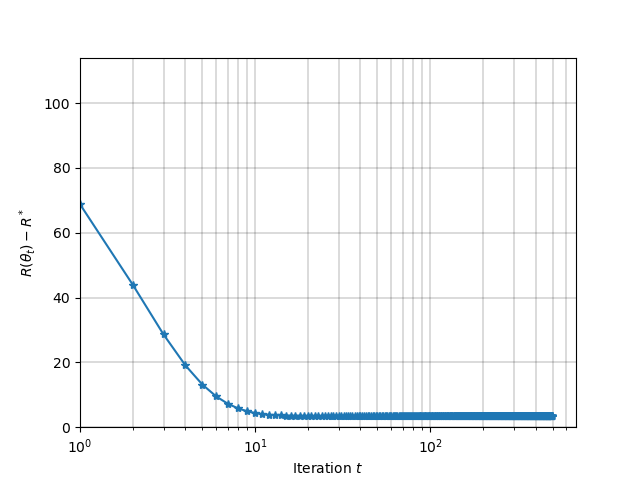
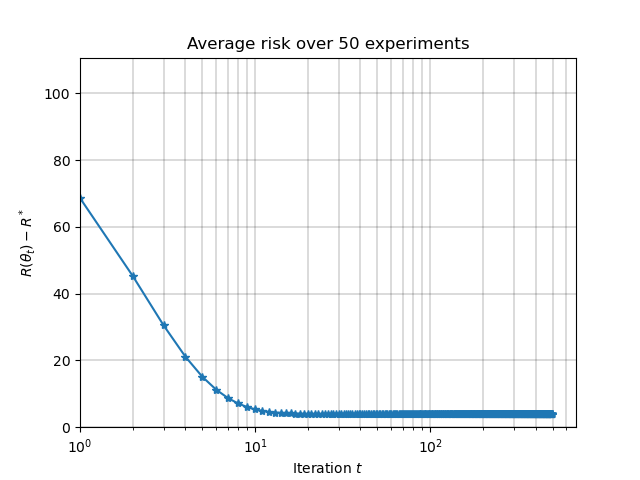
Average risks

diff --git a/paper_like.py b/paper_like.py
@@ -1,6 +1,7 @@
 import torch
 import numpy as np
 import matplotlib.pyplot as plt
+from tqdm import tqdm
 
 from utils import *
 
@@ -17,51 +18,59 @@ epochs = 500
 intern_dim=10
 optimizer='GD'
 
-model_name = 'MLP' #'MLP' or 'SLN'
+nb_avg = 50
 
-### Data generation
-data = np.random.multivariate_normal(
-    np.zeros(p),
-    np.ones((p,p)),
-    size=n) # shape (n,p)
+model_name = 'SLN' #'MLP' or 'SLN'
 
-w_true = np.ones(p)*1/np.sqrt(p)
+### Repeating experiment
+errors = np.zeros((nb_avg, epochs))
+for i in tqdm(range(nb_avg)):
+    ### Data generation
+    data = np.random.multivariate_normal(
+        np.zeros(p),
+        np.ones((p,p)),
+        size=n) # shape (n,p)
 
-observations = [np.random.normal(
-    np.dot(w_true, x),
-    sigma2)
-    for x in data]
-observations = np.array(observations) # shape (n,)
+    w_true = np.ones(p)*1/np.sqrt(p)
 
-### Solving the problem
-w_ridge = ridge(data, observations, lambda_)
+    observations = [np.random.normal(
+        np.dot(w_true, x),
+        sigma2)
+        for x in data]
+    observations = np.array(observations) # shape (n,)
 
-input_Tensor = torch.from_numpy(data).to(torch.float32)
-output_Tensor = torch.from_numpy(observations).to(torch.float32)
+    ### Solving the problem
+    #w_ridge = ridge(data, observations, lambda_)
 
-if model_name == 'MLP':
-    model = MultiLayerPerceptron(input_dim=p,
-                                 intern_dim=intern_dim,
-                                 output_dim=1,
-                                 depth=0,
-                                 isBiased = False)
-elif model_name == 'SLN':
-    model = SingleLayerNet(input_size=p,
-                         output_size=1)
+    input_Tensor = torch.from_numpy(data).to(torch.float32)
+    output_Tensor = torch.from_numpy(observations).to(torch.float32)
 
-errors = train(model,
-      input_Tensor,
-      output_Tensor,
-      lossFct = nn.MSELoss(),
-      optimizer=optimizer,
-      epochs=epochs,
-      batch_size=None,
-      return_vals=True,
-      init_norm = None,
-      lr = 0.001)
+    if model_name == 'MLP':
+        model = MultiLayerPerceptron(input_dim=p,
+                                     intern_dim=intern_dim,
+                                     output_dim=1,
+                                     depth=0,
+                                     isBiased = False)
+    elif model_name == 'SLN':
+        model = SingleLayerNet(input_size=p,
+                             output_size=1)
+
+    errors[i,:] = train(model,
+          input_Tensor,
+          output_Tensor,
+          lossFct = nn.MSELoss(),
+          optimizer=optimizer,
+          epochs=epochs,
+          batch_size=None,
+          return_vals=True,
+          init_norm = None,
+          lr = 0.001)
+
+mean_error = np.mean(errors, axis=0)
 
 fig1,ax1 = plt.subplots(1,1)
-ax1.plot(range(epochs), errors, marker='*')
+ax1.plot(range(epochs), mean_error, marker='*')
+ax1.set_title(f'Average risk over {nb_avg} experiments')
 ax1.set_xlabel(r'Iteration $t$')
 ax1.set_ylabel(r'$R(\theta_t) - R^*$')
 ax1.set_xscale('log')
